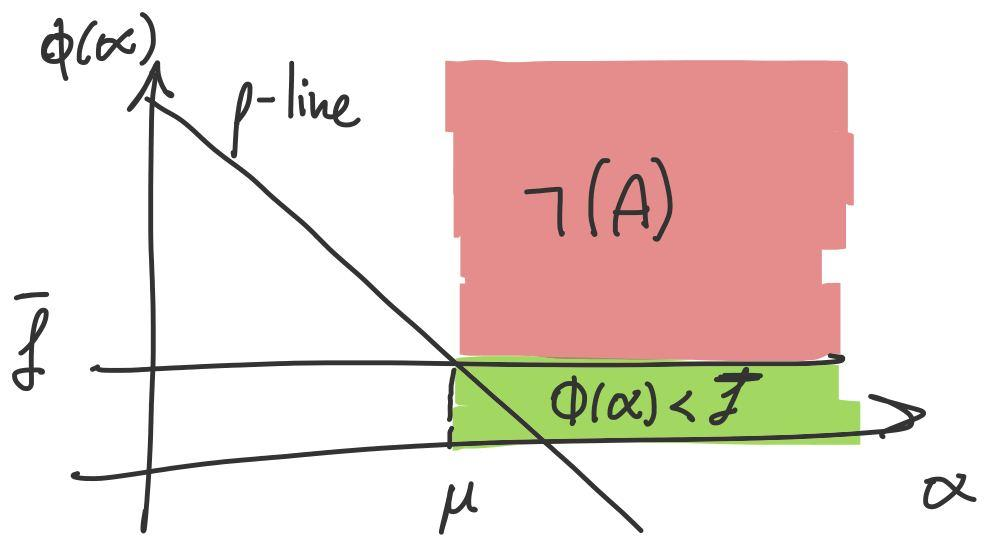
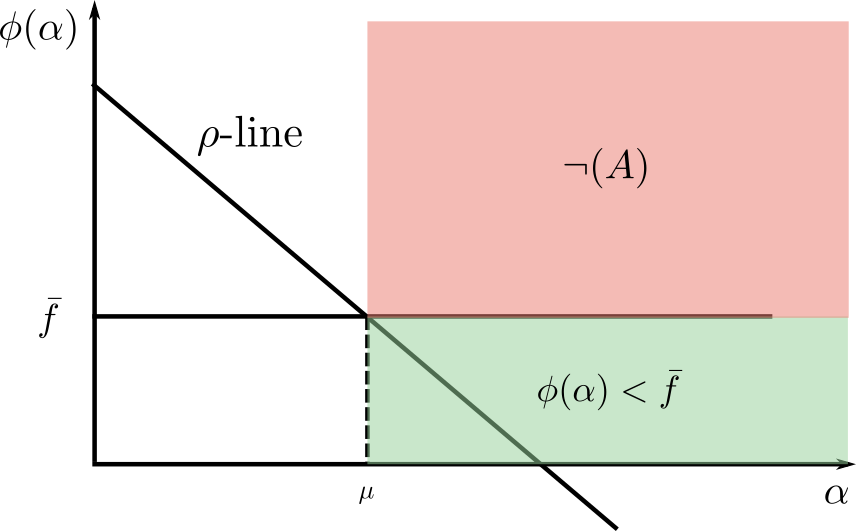
Fix: missing figure in assets

diff --git a/report.md b/report.md
@@ -248,7 +248,7 @@ For the linear least-squares problem an obvious lower bound is $\bar f = 0$.
 
 The algorithm performs an inexact line search by looking for a candidate point $\alpha_i$ at the $i$-th iteration in the interval $(a_i, b_i)$, stopping if such candidate reaches the lower bound or if it satisfies both \eqref{eqn:armijo} and \eqref{eqn:wolfe}.
 
-![Graphical depiction of the $\mu$ point.\label{fig:mu}](assets/figure.png)
+![Graphical depiction of the $\mu$ point.\label{fig:mu}](assets/rho-line.png)
 
 The Armijo condition describes a line, called $\rho$-line, in the plot $(\alpha, \phi(\alpha))$ that can be useful to bound the starting interval.
 In fact the initial search interval can be reduced from $(0,\infty)$ to $(0,\mu)$ where
